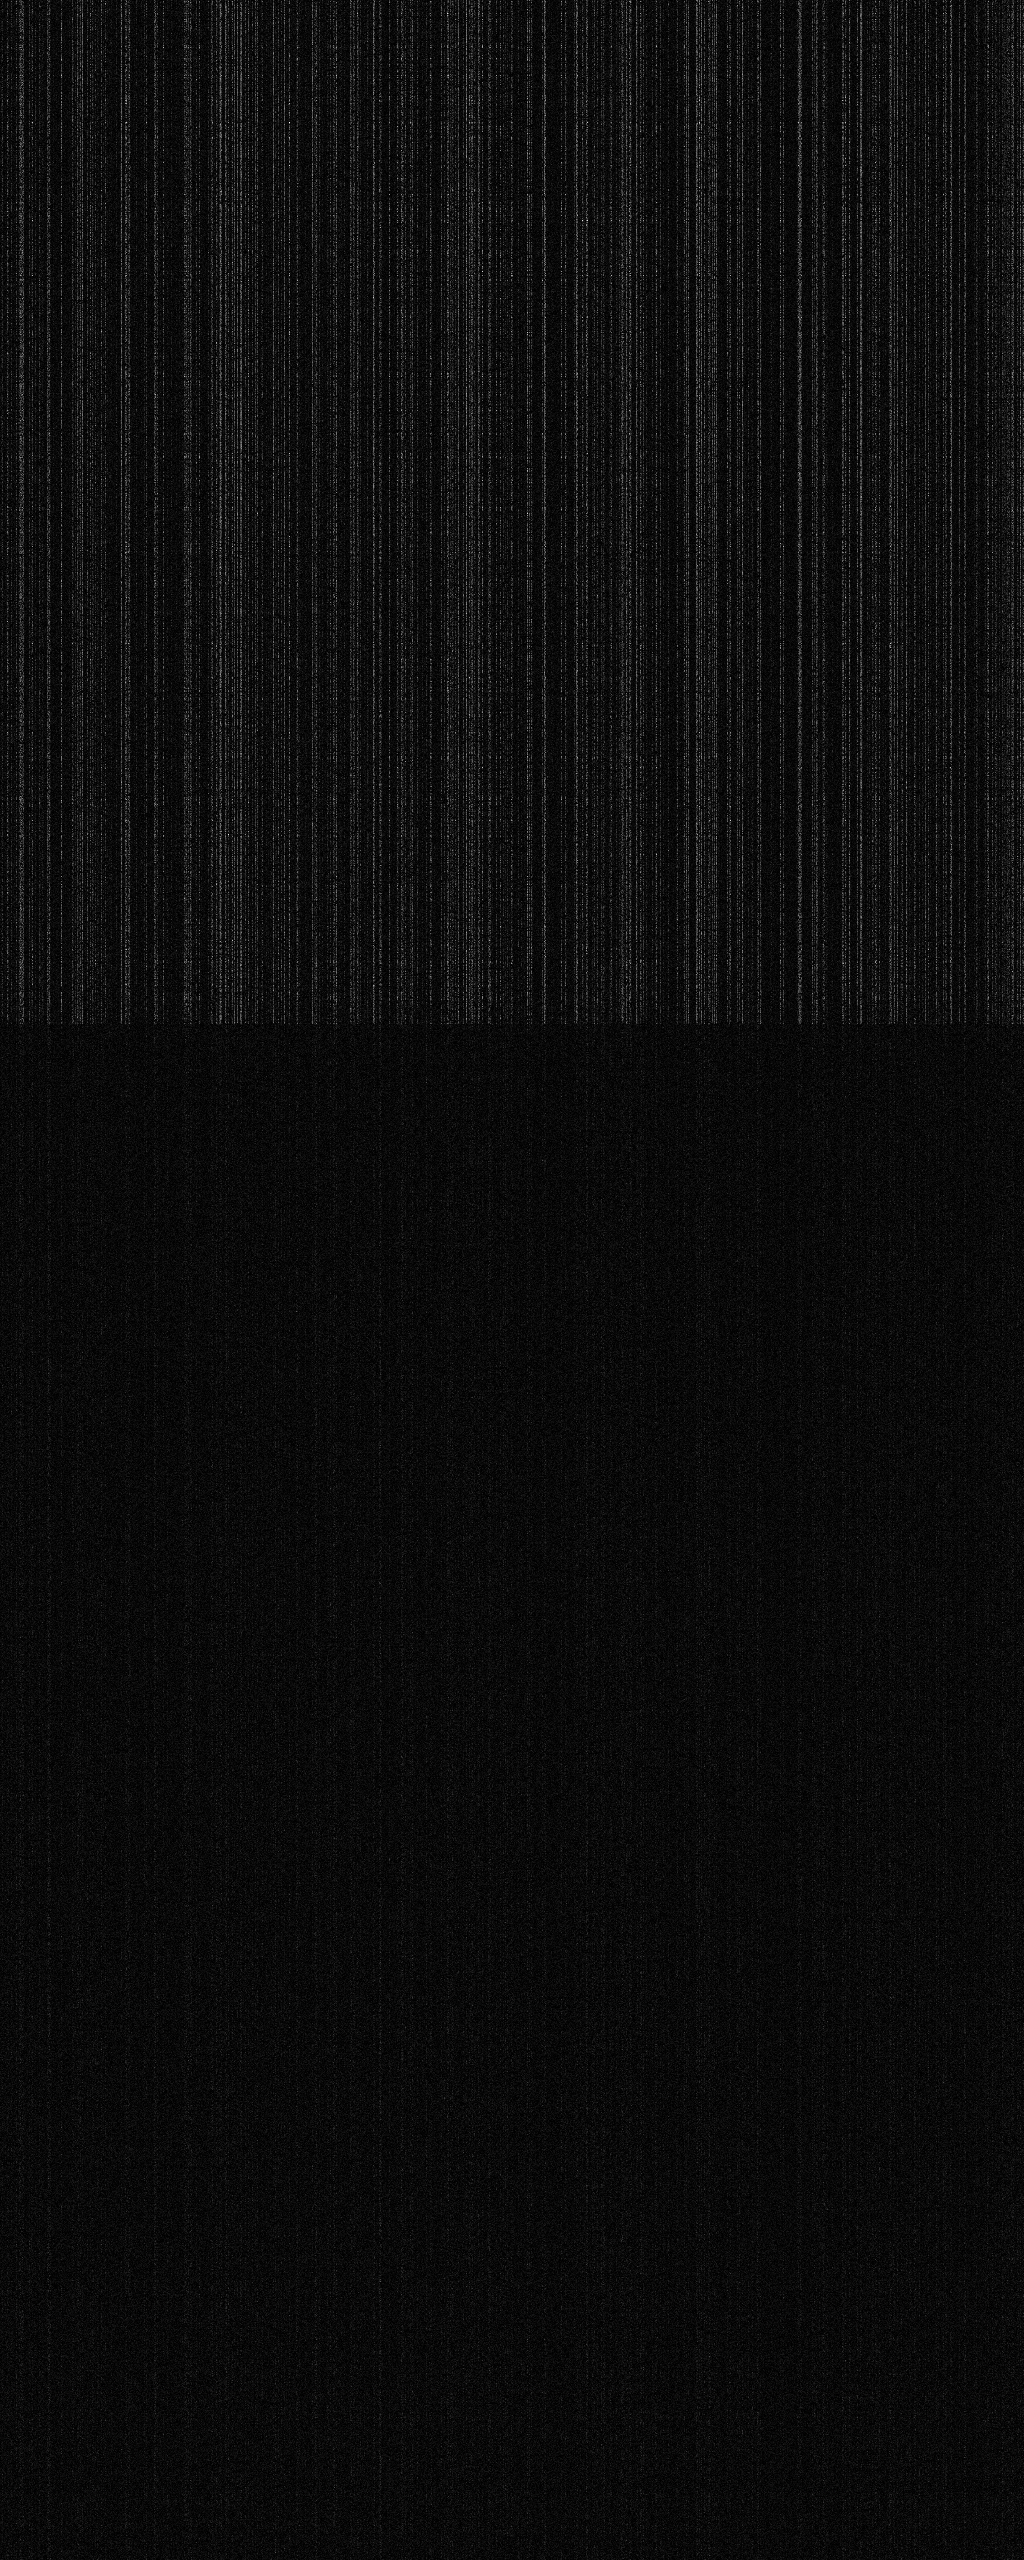
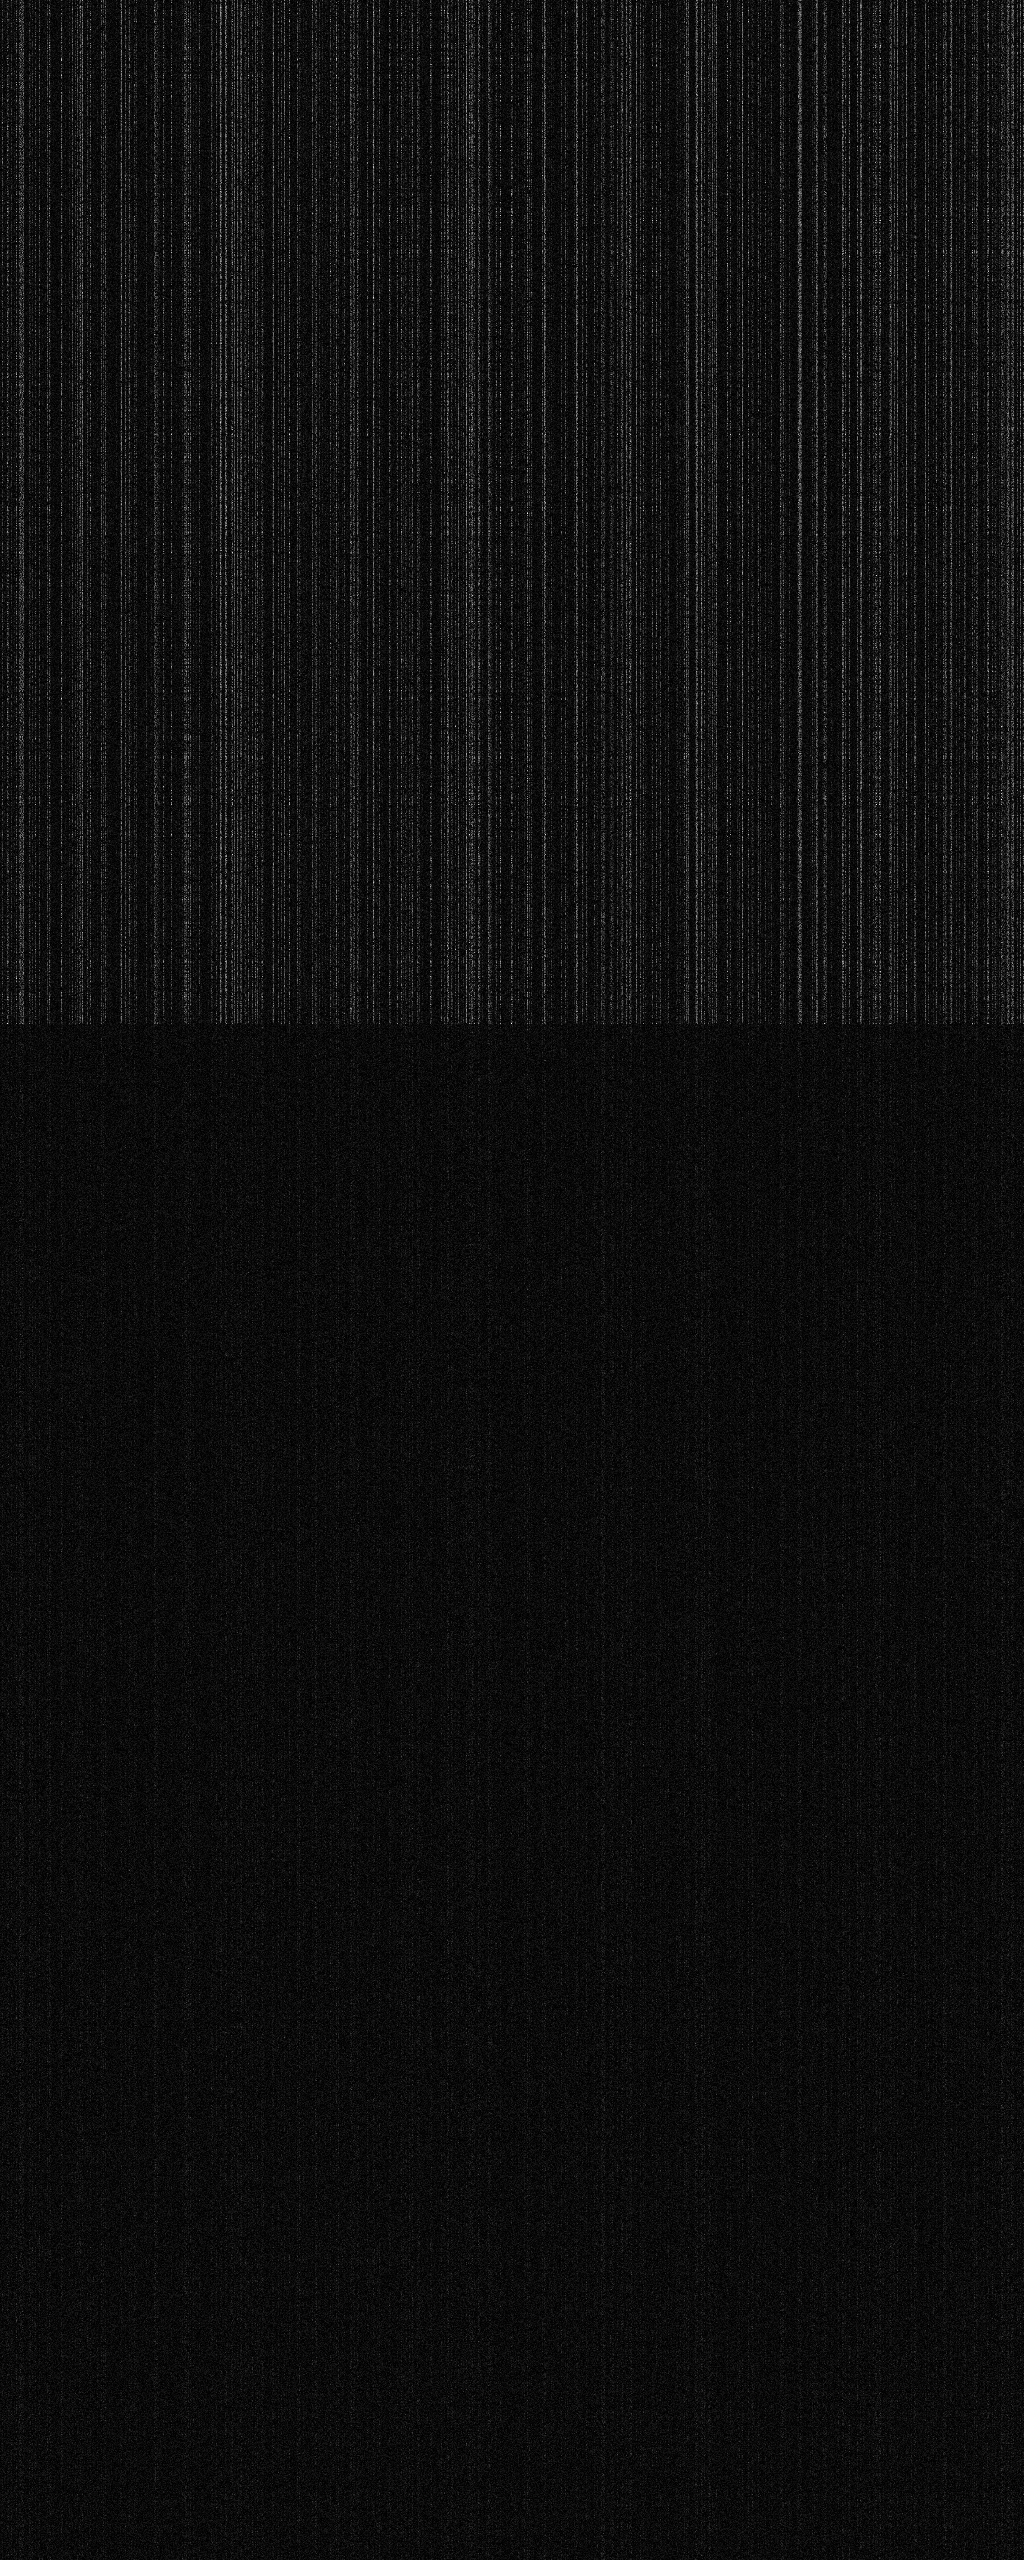
Cambios del 31/01/2019 (Prueba "interna")

Changed region(s): [[0.0, 0.0, 1.0, 0.4062]]

diff --git a/ModelV3_1.py b/ModelV3_1.py
@@ -55,8 +55,8 @@ class ModelV3_1(ModelClass):
 
             # Operaciones -----------------------------------------------------------------------------------------------------------------
 
-            user_emb = tf.nn.embedding_lookup(E1, user_rest_input[:,0])
-            rest_emb = tf.nn.embedding_lookup(E2, user_rest_input[:,1])
+            user_emb = tf.nn.embedding_lookup(E1, user_rest_input[:,0], name="user_emb") #user_emb/Identity:0
+            rest_emb = tf.nn.embedding_lookup(E2, user_rest_input[:,1], name="rest_emb") #rest_emb/Identity:0
 
             user_emb = tf.nn.dropout(user_emb,keep_prob=dpout);
             rest_emb = tf.nn.dropout(rest_emb,keep_prob=dpout);
@@ -123,6 +123,7 @@ class ModelV3_1(ModelClass):
                                  'dpout:0': self.CONFIG['dropout']}
 
             _, R0,E1,E2,batch_softplus,batch_bin_prob = self.SESSION.run(['train_step_bin:0','R0:0','E1:0','E2:0','batch_softplus:0','batch_bin_prob:0'], feed_dict=feed_dict_bin)
+            # ue, re, im = self.SESSION.run(['user_emb/Identity:0','rest_emb/Identity:0','img_input'], feed_dict=feed_dict_bin)
 
             if(self.CURRENT_EPOCH==30):
                 sufx = ""

diff --git a/docs/CHANGELOG.md b/docs/CHANGELOG.md
@@ -467,5 +467,5 @@ Partiendo de los datos anteriores (`TRAIN_v3`, `DEV_v3` y `TEST_v3`) se plantea:
 Tras evaluar la acuraccy en `TRAIN_v3_1` y `DEV_v3_1` se obtuvieron unos resultados de 99% y 92% respectivamente.
 Tras evaluar con el conjunto `TEST_v3` se obtuvieron los mismos resultados que en la actualización previa.
 
-Analizando este comportamiento se descubrió que el modelo no tenía en cuenta las imágenes (valor de pesos reducido) y se vió que eliminando las imágenes (poniendo 0's) se obtenían los mismos e incluso mejores resultados en acurracy.
+Analizando este comportamiento se descubrió que el modelo no tenía en cuenta las imágenes (valor de pesos reducido; ver imágen `out/31_01_2019/R0.png`) y se vió que eliminando las imágenes (poniendo 0's) se obtenían los mismos e incluso mejores resultados en acurracy.
 
